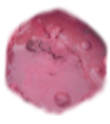
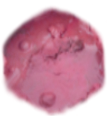
added trap sprite for Scorched Earth and Fissure Vent #263

diff --git a/bestiary/Magma Spawn/abilities.js b/bestiary/Magma Spawn/abilities.js
@@ -5,7 +5,7 @@
 */
 abilities[4] =[
 
-// 	First Ability: After Burner
+// 	First Ability: Scorched Ground
 {
 	//	Type : Can be "onQuery","onStartPhase","onDamage"
 	trigger : "onStartPhase",
@@ -25,9 +25,9 @@ abilities[4] =[
 			return this.trap.hex.creature.type != "L2"; 
 		};
 
-		this.creature.hexagons[1].createTrap("mud-bath",[
+		this.creature.hexagons[1].createTrap("scorched-ground",[
 			new Effect(
-				"After Burner",this.creature,this.creature.hexagons[1],"onStepIn",
+				"Scorched Ground",this.creature,this.creature.hexagons[1],"onStepIn",
 				{ requireFn: requireFn, effectFn: effectFn,	attacker: this.creature }
 			),
 		],this.creature.player);
@@ -39,9 +39,9 @@ abilities[4] =[
 			hex = this.creature.hexagons[2];
 
 
-		hex.createTrap("mud-bath",[
+		hex.createTrap("scorched-ground",[
 			new Effect(
-				"After Burner",this.creature,hex,"onStepIn",
+				"Scorched Ground",this.creature,hex,"onStepIn",
 				{ requireFn: requireFn, effectFn: effectFn,	attacker: this.creature }
 			),
 		],this.creature.player);
@@ -50,7 +50,7 @@ abilities[4] =[
 
 
 
-// 	Second Ability: Pulverize
+// 	Second Ability: Pulverize Attack
 {
 	//	Type : Can be "onQuery","onStartPhase","onDamage"
 	trigger : "onQuery",
@@ -106,7 +106,7 @@ abilities[4] =[
 
 
 
-// 	Thirt Ability: Fissure
+// 	Thirt Ability: Fissure Vent
 {
 	//	Type : Can be "onQuery","onStartPhase","onDamage"
 	trigger : "onQuery",

diff --git a/combat/css/style.css b/combat/css/style.css
@@ -796,5 +796,6 @@ body{
 	-o-transform-origin:0% 30%; /* Opera */
 }
 
-.trap.mud-bath { background: url("../grid/trap_mud.png"); }
+.trap.mud-bath { background: url("../grid/mud-bath.png"); }
 .trap.royal-seal { background: url("../grid/royal-seal.png"); }
+.trap.scorched-ground { background: url("../grid/scorched-ground.png"); }
